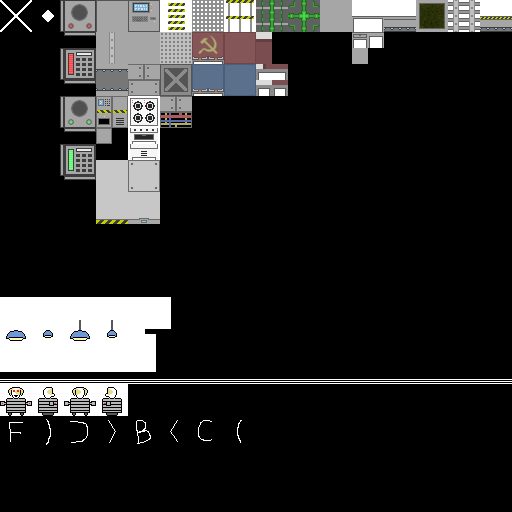
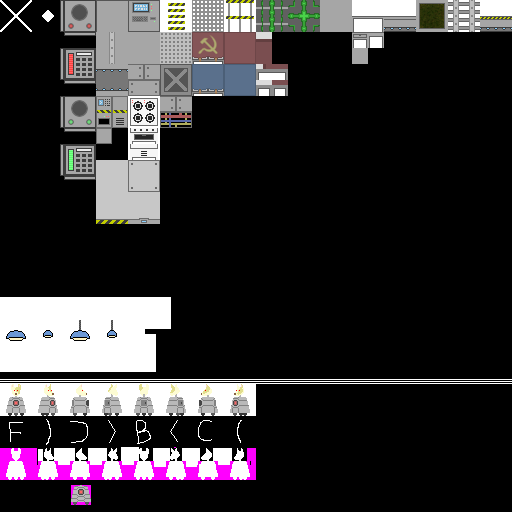
Moving enemy sprites into enemies.png and enemies_lightmap.png

Changed region(s): [[0.0, 0.875, 0.5, 1.0], [0.0, 0.75, 0.5, 0.8125]]

diff --git a/src/BORK_of_DOOM/bork.c b/src/BORK_of_DOOM/bork.c
@@ -32,7 +32,7 @@ void bork_init(struct bork_game_core* core)
     };
     /*  Set up the gbuffer for deferred shading */
     pg_gbuffer_init(&core->gbuf, sw, sh);
-    pg_gbuffer_bind(&core->gbuf, 20, 21, 22, 23);
+    pg_gbuffer_bind(&core->gbuf, 21, 22, 23, 24);
     pg_viewer_init(&core->view, (vec3){ 0, 0, 0 }, (vec2){ 0, 0 },
         core->screen_size, (vec2){ 0.01, 200 });
     /*  Set up the shaders  */
@@ -40,7 +40,7 @@ void bork_init(struct bork_game_core* core)
     pg_shader_2d(&core->shader_2d);
     pg_shader_sprite(&core->shader_sprite);
     pg_shader_text(&core->shader_text);
-    pg_ppbuffer_init(&core->ppbuf, sw, sh, 24, 25);
+    pg_ppbuffer_init(&core->ppbuf, sw, sh, 26, 27);
     pg_postproc_blur(&core->post_blur, PG_BLUR7);
     pg_postproc_screen(&core->post_screen);
     /*  Get the models, textures, sounds, etc.*    */
@@ -85,19 +85,22 @@ void bork_load_assets(struct bork_game_core* core)
     pg_texture_init_from_file(&core->item_tex, "res/items.png", "res/items_lightmap.png");
     pg_texture_set_atlas(&core->item_tex, 16, 16);
     pg_texture_bind(&core->item_tex, 10, 11);
+    pg_texture_init_from_file(&core->enemies_tex, "res/enemies.png", "res/enemies_lightmap.png");
+    pg_texture_set_atlas(&core->enemies_tex, 32, 32);
+    pg_texture_bind(&core->enemies_tex, 12, 13);
     pg_texture_init_from_file(&core->particle_tex, "res/particles.png", "res/particles_lightmap.png");
     pg_texture_set_atlas(&core->particle_tex, 16, 16);
-    pg_texture_bind(&core->particle_tex, 12, 13);
+    pg_texture_bind(&core->particle_tex, 14, 15);
     pg_texture_init_from_file(&core->upgrades_tex, "res/upgrades.png", NULL);
     pg_texture_set_atlas(&core->upgrades_tex, 32, 32);
-    pg_texture_bind(&core->upgrades_tex, 14, 0);
+    pg_texture_bind(&core->upgrades_tex, 16, 0);
     /*  Generate the backdrop texture (cloudy reddish fog)  */
     pg_texture_init(&core->backdrop_tex, 256, 256);
     pg_texture_init(&core->menu_vignette, 256, 256);
     pg_texture_init(&core->radial_vignette, 256, 256);
-    pg_texture_bind(&core->backdrop_tex, 16, -1);
-    pg_texture_bind(&core->menu_vignette, 17, -1);
-    pg_texture_bind(&core->radial_vignette, 18, -1);
+    pg_texture_bind(&core->backdrop_tex, 18, -1);
+    pg_texture_bind(&core->menu_vignette, 19, -1);
+    pg_texture_bind(&core->radial_vignette, 20, -1);
     float seed = (float)rand() / RAND_MAX * 1000;
     struct pg_wave backdrop_wave[8] = {
         PG_WAVE_MOD_SEAMLESS_2D(.scale = 0.5),

diff --git a/src/BORK_of_DOOM/state_play.c b/src/BORK_of_DOOM/state_play.c
@@ -962,7 +962,7 @@ static void draw_enemies(struct bork_play_data* d, float lerp)
     struct pg_model* model = &d->core->enemy_model;
     int current_frame = 0;
     pg_shader_sprite_mode(shader, PG_SPRITE_CYLINDRICAL);
-    pg_shader_sprite_texture(shader, &d->core->env_atlas);
+    pg_shader_sprite_texture(shader, &d->core->enemies_tex);
     pg_shader_sprite_tex_frame(shader, 0);
     pg_shader_sprite_add_tex_tx(shader, (vec2){ 1, 1 }, (vec2){});
     pg_shader_sprite_transform(shader, (vec2){ 1, 1 }, (vec2){});

diff --git a/src/BORK_of_DOOM/bork.h b/src/BORK_of_DOOM/bork.h
@@ -35,6 +35,7 @@ struct bork_game_core {
     struct pg_texture particle_tex;
     struct pg_texture upgrades_tex;
     struct pg_texture item_tex;
+    struct pg_texture enemies_tex;
     struct pg_texture font;
     /*  Generated assets    */
     struct pg_texture backdrop_tex;
